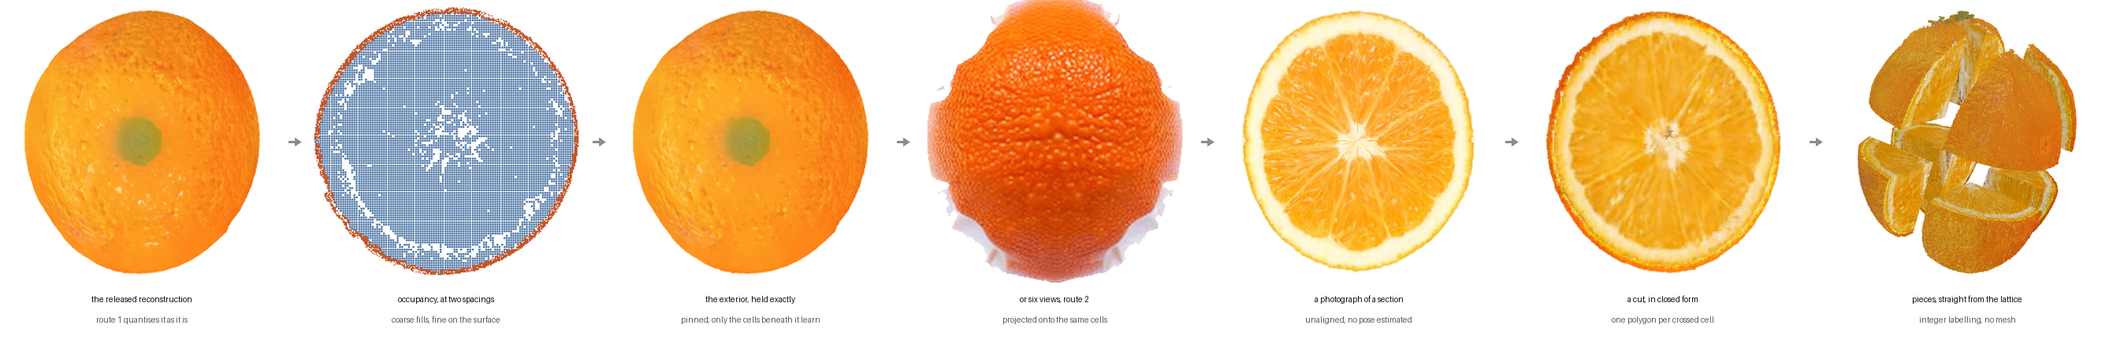
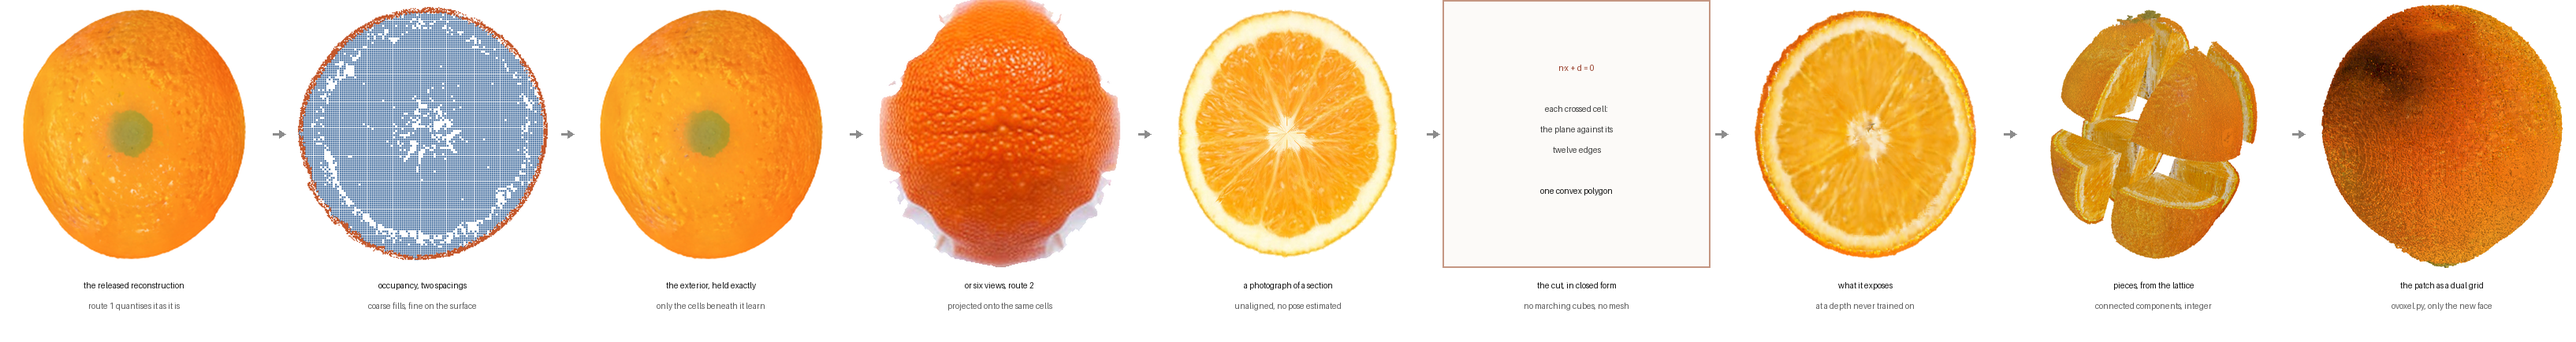
Figure 2 carries the cut and the dual grid too
Seven panels stopped at the pieces, which left out both halves of what the representation is
for. Nine now: the plane against a crossed cell's twelve edges, stated rather than drawn because
there is nothing to photograph in an edge-plane intersection; the face it exposes at a depth
training never sampled; the pieces; and the newly exposed face as a dual grid -- 900,556 dual
vertices carrying colour from the skin, rendered from the npz globalovox writes, which until
today could not be built from this repository at all.

diff --git a/index.html b/index.html
@@ -400,15 +400,17 @@ around.</p>
 
 <figure style="margin:18px 0 30px">
   <img src="assets/pipeline.png" style="width:100%;border-radius:4px"
-       alt="the orange through every stage: reconstruction, occupancy, exterior, six views, a section photograph, a cut, and the pieces">
-  <figcaption><span class="fnum">Figure 2</span><br>One object through every stage. The
-  reconstruction is quantised onto an occupancy at two spacings &mdash; coarse fills the volume,
-  fine sits on the surface, and which cells those are is decided by the shape and not by a radius.
-  The exterior is then held exactly where it arrived, from the reconstruction on the first route
-  or from six views on the second, and only the cells beneath it are trained, against photographs
-  that are never posed or registered. A cut is one convex polygon per crossed cell and the pieces
-  fall out of the lattice's own adjacency, so nothing here passes through a mesh, a marching cube
-  or a generative model.</figcaption>
+       alt="the orange through every stage: reconstruction, occupancy at two spacings, exterior, six views, a section photograph, the closed-form cut, the exposed face, the pieces, and the dual grid">
+  <figcaption><span class="fnum">Figure 2</span><br>One object through every stage, rendered
+  from the run this page reports. The reconstruction is quantised onto an occupancy at two
+  spacings &mdash; coarse fills the volume, fine sits on the surface, and which cells those are
+  is decided by the shape rather than by a radius. The exterior is then held where it arrived,
+  from the reconstruction on the first route or from six views on the second, and only the cells
+  beneath it are trained, against photographs nobody aligned. A cut is the plane against each
+  crossed cell's twelve edges, one convex polygon each; the pieces are connected components on
+  the lattice's own adjacency; and the newly exposed face &mdash; only that face &mdash; becomes
+  a dual grid. The fifth panel and the seventh are the argument: a photograph nobody posed, and
+  what the lattice renders at a depth training never sampled.</figcaption>
 </figure>
 
 
